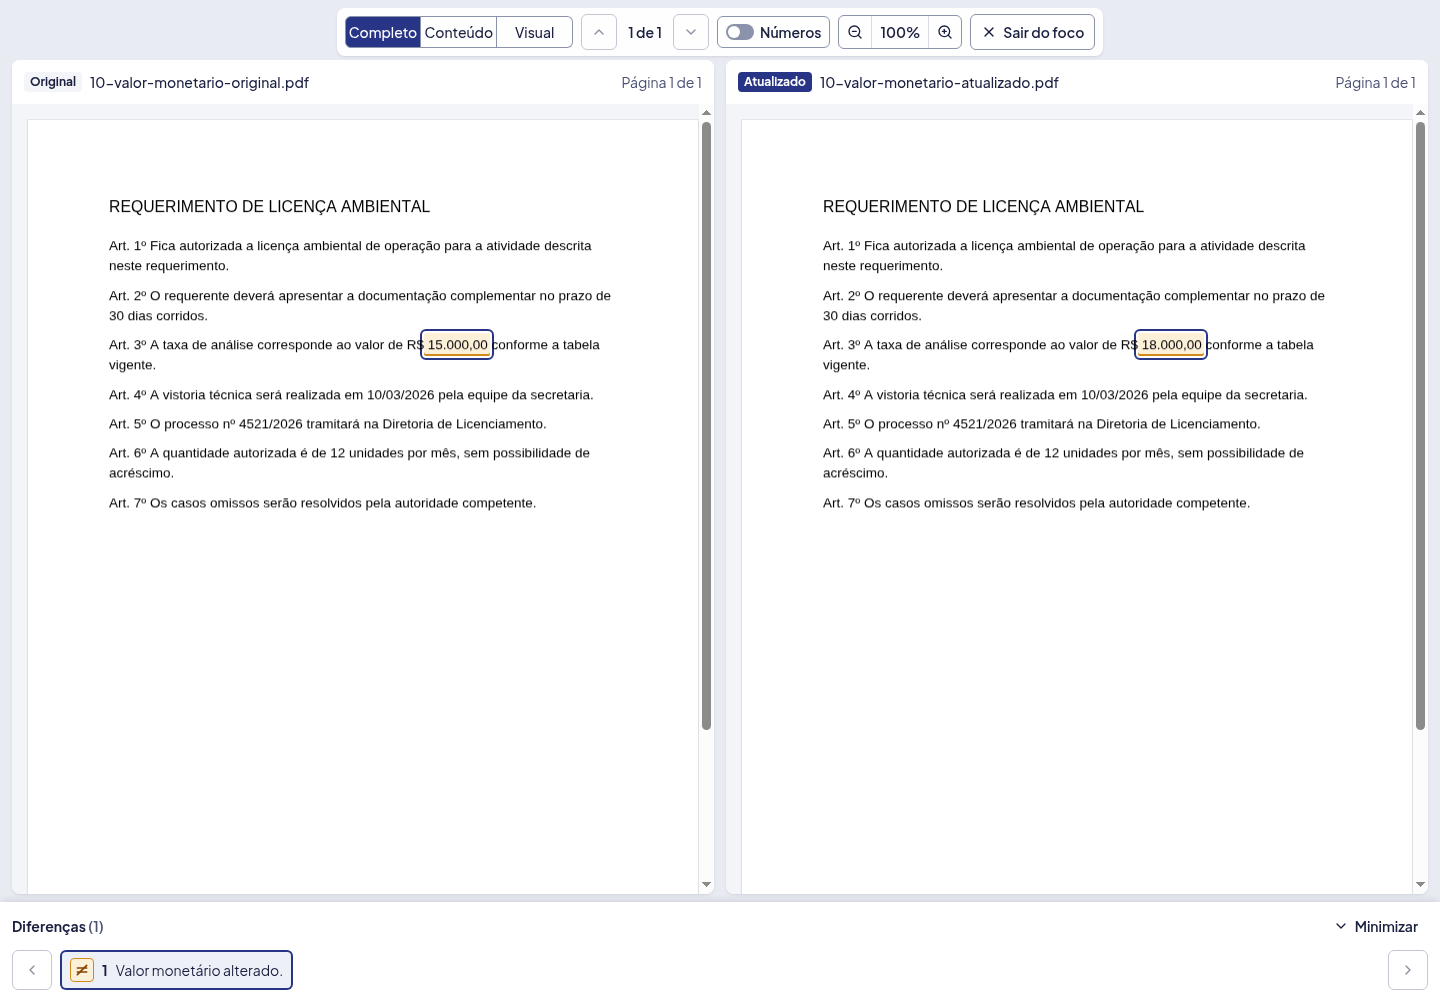
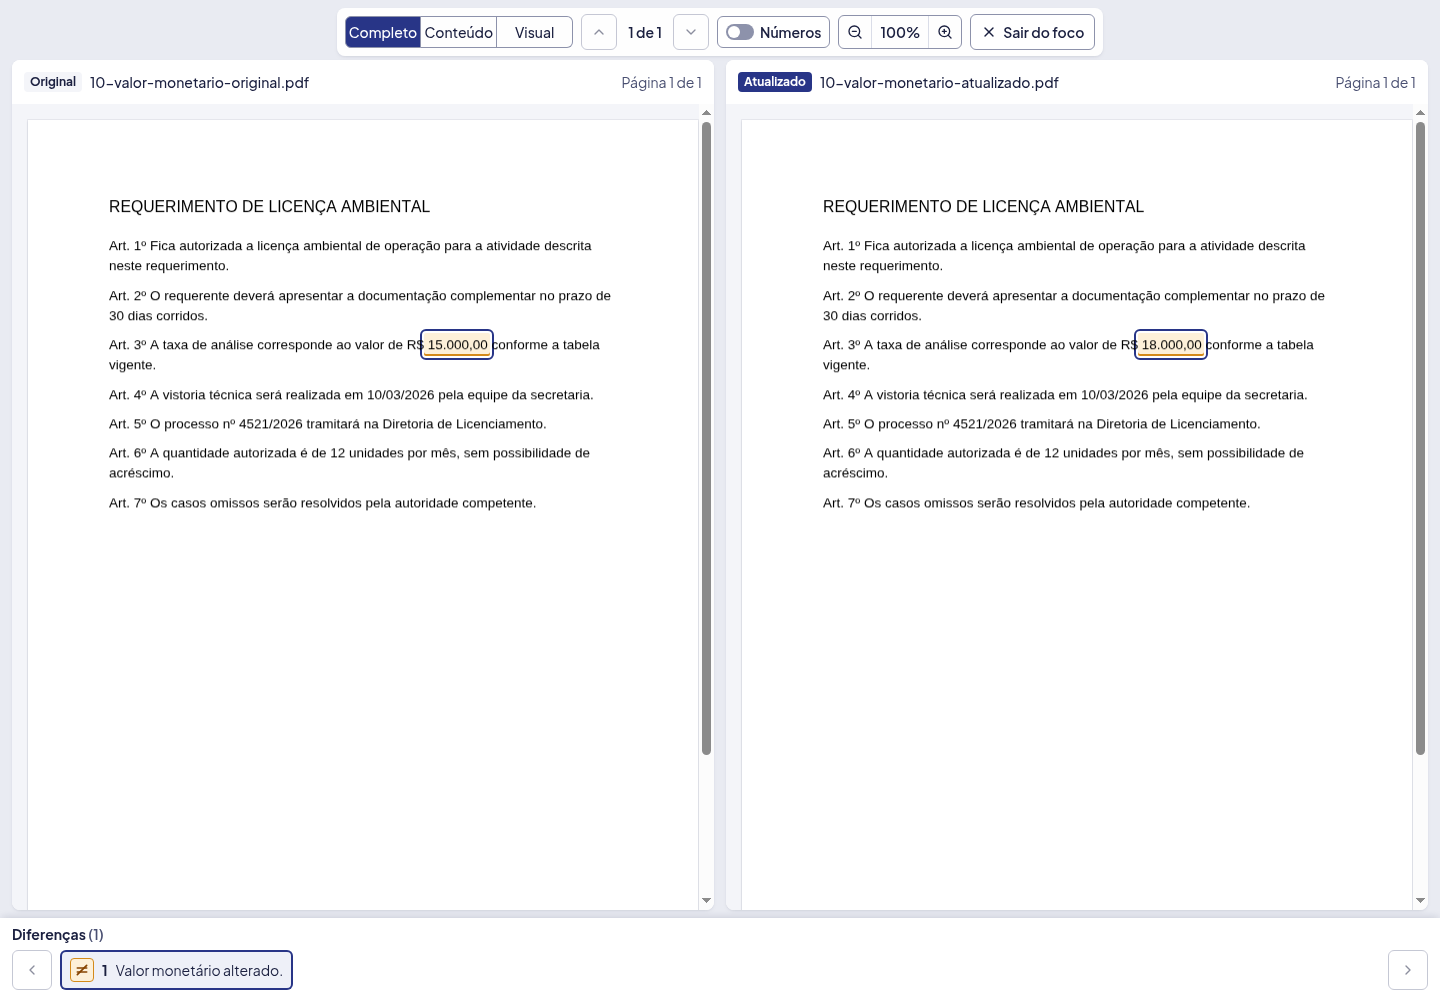
Deixa a faixa de diferenças sempre visível no modo foco
Pedido do responsável: no foco, as diferenças ficam sempre à vista, com as
setas para ir de uma à outra, sem a opção de minimizar.

Changed region(s): [[0.0, 0.868, 1.0, 0.961]]

diff --git a/src/features/comparison/components/ComparisonWorkspace.tsx b/src/features/comparison/components/ComparisonWorkspace.tsx
@@ -1,4 +1,4 @@
-import { ChevronDown, ChevronLeft, ChevronRight, ChevronUp, List, Maximize, PanelLeftClose, PanelLeftOpen, X } from 'lucide-react'
+import { ChevronLeft, ChevronRight, List, Maximize, PanelLeftClose, PanelLeftOpen, X } from 'lucide-react'
 import { useEffect, useId, useMemo, useRef, useState, type CSSProperties, type ReactNode } from 'react'
 import { createPortal } from 'react-dom'
 import { Button } from '@/components/ui/button'
@@ -178,7 +178,6 @@ export function ComparisonWorkspace({ result, documents, initialView = {}, onVie
   }
 
   const paneProps = { activeId, numbers, visibleIds, differences: result.differences, onSelect: navigation.select, pageMatches: result.analysis.pageMatches }
-  const activeDifference = navigation.active
   const showOriginal = viewMode !== 'updated'
   const showUpdated = viewMode !== 'original'
 
@@ -252,25 +251,11 @@ export function ComparisonWorkspace({ result, documents, initialView = {}, onVie
             <h2 className="text-sm font-bold text-ink">
               Diferenças <span className="tabular font-semibold text-muted-foreground">({navigation.visible.length})</span>
             </h2>
-            {listCollapsed && activeDifference && (
-              <span className="min-w-0 truncate text-sm text-muted-foreground">
-                {numbers.get(activeDifference.id)}. {describeDifference(activeDifference)}
-              </span>
-            )}
-            <Button variant="ghost" size="sm" className="ml-auto" aria-expanded={!listCollapsed} onClick={() => setListCollapsed((value) => !value)}>
-              {listCollapsed ? <ChevronUp aria-hidden /> : <ChevronDown aria-hidden />}
-              {listCollapsed ? 'Mostrar diferenças' : 'Minimizar'}
-            </Button>
           </div>
           <div className="flex items-center gap-2 px-3 pt-1 pb-2">
             <Button variant="outline" size="icon" onClick={navigation.previous} disabled={!navigation.hasPrevious} aria-label="Diferença anterior">
               <ChevronLeft aria-hidden />
             </Button>
-            {listCollapsed ? (
-              <span className="tabular text-sm font-semibold text-ink" aria-live="polite">
-                {navigation.visible.length === 0 ? '0 de 0' : `${navigation.activeIndex + 1} de ${navigation.visible.length}`}
-              </span>
-            ) : (
               <ol aria-label="Diferenças encontradas" className="flex min-w-0 flex-1 gap-2 overflow-x-auto py-0.5">
                 {navigation.visible.map((difference) => {
                   const meta = differenceKindMeta[difference.kind]
@@ -294,8 +279,7 @@ export function ComparisonWorkspace({ result, documents, initialView = {}, onVie
                   )
                 })}
               </ol>
-            )}
-            <Button variant="outline" size="icon" onClick={navigation.next} disabled={!navigation.hasNext} aria-label="Próxima diferença" className={cn(listCollapsed && 'mr-auto')}>
+            <Button variant="outline" size="icon" onClick={navigation.next} disabled={!navigation.hasNext} aria-label="Próxima diferença">
               <ChevronRight aria-hidden />
             </Button>
           </div>

diff --git a/src/features/comparison/components/ComparisonWorkspace.test.tsx b/src/features/comparison/components/ComparisonWorkspace.test.tsx
@@ -84,7 +84,7 @@ describe('ComparisonWorkspace', () => {
     expect(screen.getByRole('region', { name: 'Documento atualizado' })).toBeInTheDocument()
   })
 
-  it('modo foco: tela cheia, setas na faixa de diferenças e Esc para sair', async () => {
+  it('modo foco: tela cheia, faixa de diferenças sempre visível com setas e Esc para sair', async () => {
     const user = userEvent.setup()
     renderWorkspace()
     await user.click(screen.getByRole('button', { name: /Focar/ }))
@@ -97,10 +97,8 @@ describe('ComparisonWorkspace', () => {
     expect(within(strip).getAllByRole('button')[1]).toHaveAttribute('aria-current', 'true')
     await user.click(defined(within(focusRegion).getAllByRole('button', { name: 'Diferença anterior' })[1]))
     expect(within(strip).getAllByRole('button')[0]).toHaveAttribute('aria-current', 'true')
-    // Minimizar a faixa deixa só as setas e a posição.
-    await user.click(within(focusRegion).getByRole('button', { name: 'Minimizar' }))
-    expect(within(focusRegion).queryByRole('list', { name: 'Diferenças encontradas' })).not.toBeInTheDocument()
-    expect(within(focusRegion).getAllByText(`1 de ${total}`, { selector: 'span[aria-live]' })).toHaveLength(2)
+    // No foco, as diferenças ficam sempre à vista: não há como minimizar a faixa.
+    expect(within(focusRegion).queryByRole('button', { name: /Minimizar/ })).not.toBeInTheDocument()
     await user.keyboard('{Escape}')
     expect(screen.queryByRole('region', { name: /Modo foco/ })).not.toBeInTheDocument()
     expect(screen.getByRole('button', { name: /Focar/ })).toHaveFocus()

diff --git a/docs/CONTEXTO.md b/docs/CONTEXTO.md
@@ -54,7 +54,7 @@ Antes de cada commit: `npm run lint`, `npm run typecheck`, `npm test` e `npm run
 
 | Data | Decisão |
 |---|---|
-| 16/10/2026 | **Tela de comparação: barra única + modo foco + lista minimizável + números só ao passar o mouse** (com interruptor "Números" para deixá-los sempre visíveis). No foco, a faixa de diferenças tem setas para ir de uma à outra. Referência: `docs/propostas-comparacao/mistura.html`. |
+| 16/10/2026 | **Tela de comparação: barra única + modo foco + lista minimizável + números só ao passar o mouse** (com interruptor "Números" para deixá-los sempre visíveis). No foco, a faixa de diferenças fica sempre visível (sem minimizar), com setas para ir de uma à outra. Referência: `docs/propostas-comparacao/mistura.html`. |
 | 16/10/2026 | **A comparação continua aberta** quando a pessoa visita outra página do site e volta por "Comparar PDFs" (pedido do responsável). Só em memória: recarregar, sair da conta ou "Nova comparação" a descartam. |
 | 15/10/2026 | **Comparador híbrido** (missão "evolução completa do sistema de comparação de PDFs"): **substitui a D3** ("só o texto, sem OCR"). O comparador passa a comparar texto, aparência (renderização), imagens, estrutura de páginas e documentos digitalizados (OCR local), com consolidação das evidências, modos Completo/Conteúdo/Visual, exportação e cobertura da análise explícita. Nada de LLM nem de APIs externas: OCR local (Tesseract). Sem push, deploy ou mudança em serviços institucionais. Registro em `docs/comparador/REGISTRO_EXECUCAO.md`. |
 | 15/10/2026 | **Entrada depois do login: "varredura lado a lado"** (as folhas "Original" e "Atualizado" lado a lado, com uma linha amarela que desce acendendo as diferenças). **A logo da entrada não pode ser branca**, porque a troca de branco para azul no voo até o cabeçalho fica estranha: ela nasce azul sobre uma placa branca. **Escolhida a "+ Lista"** (cada diferença vira uma etiqueta que voa até uma lista no meio). A placa branca retangular sob a logo não agradou (fica sobreposta ao fundo). **Fundo: "Névoa"** (claro azulado com os anéis em azul; o responsável voltou atrás no "Noite"): no claro, a logo azul aparece direto, sem placa. **Depois do login aparece uma saudação ("Boas-vindas" com o nome), que a varredura troca pela logo**; **Escolhida a "linha sobe"**, mas sem a saudação surgindo sozinha: a linha desce lendo os PDFs, sobe apagando-os e revelando a saudação, e desce de novo trocando-a pelo AQR. **Escolhido o "corte limpo"** (troca seca nas duas passadas). **Saudação "pelo horário"** (Bom dia / Boa tarde / Boa noite, com o primeiro nome do usuário). A linha amarela desce pela página inteira dos PDFs, até o pé da folha. **Entrada fechada**; referência em `docs/propostas-login/login-entrada-final.html`. |
@@ -181,6 +181,7 @@ Antes de cada commit: `npm run lint`, `npm run typecheck`, `npm test` e `npm run
 | 15/10/2026 | Corpus sintético com gabarito (`server/comparison/evaluation/`: gerador de PDFs com texto, imagens, formas, tabelas, colunas, rotação e páginas digitalizadas com ruído e inclinação; 47 casos; avaliação por categoria; `npm run test:corpus`, `npm run avaliar:corpus`) e correções que ele revelou: texto em página girada, serrilhado com deslocamento subpixel, página repetida, carimbo sobre texto, ruído e rabiscos no OCR, dígito pequeno em digitalização. 47/47; relatório em `docs/comparador/avaliacao-corpus.md` | ver `git log` |
 | 15/10/2026 | Robustez a outros geradores (corpus regravado pelo Ghostscript e pelo Cairo: só a troca real de fonte do Cairo aparece), fonte e tamanho só onde a aparência mudou, linhas finas com outra espessura de rasterização ignoradas; testes unitários da ordem de leitura, correspondência de páginas, comparação de pixels, classificação e consolidação | ver `git log` |
 | 15/10/2026 | Desempenho (`npm run medir:desempenho`, `docs/comparador/desempenho.md`, 10 a 1.000 páginas): comparação de pixels com mapas de vizinhança pré-calculados (pior caso 0,45 → 0,15 s/página), agrupamento por página (fim de filtragens quadráticas), texto acima do limite tentado palavra a palavra e, se nada couber, página a página (antes a tarefa inteira falhava), laços no lugar de `push(...lista)` que estourava a pilha com documentos longos. 1.000 páginas no pior caso: 90 s, análise parcial com ressalva | ver `git log` |
+| 16/10/2026 | Modo foco sem "Minimizar": a faixa de diferenças fica sempre visível, com as setas (pedido do responsável) | ver `git log` |
 | 16/10/2026 | Tela de comparação nova no site, aprovada pelo responsável: barra única (52 px a 1440 px; selo da situação que abre os detalhes, modos, categoria, contadores, "Números", ▲/▼, visualização e legenda num menu, zoom, "Focar", "Ações" com exportar e nova comparação), lista de diferenças de 17 rem que minimiza numa aba fina, modo foco em tela cheia (portal no body; F liga, Esc sai) com barra flutuante e faixa de diferenças com setas ◀ ▶ e "Minimizar", números das diferenças só ao passar o mouse com o interruptor "Números". O estado (foco, lista, números) fica na sessão da comparação. Página do PDF: 440 → 520 px (lista aberta), 635 px (minimizada), 665 px (foco). Conferido no Chromium (23 verificações) | ver `git log` |
 | 16/10/2026 | Mistura pedida pelo responsável: barra única como padrão, botão "Focar" (tecla F, Esc sai) da proposta 5, lista de diferenças minimizável (aba fina na tela normal, uma linha no foco) e números das diferenças só ao passar o mouse, com o interruptor "Números sempre". Em `docs/propostas-comparacao/mistura.html`. Aguardando aprovação para levar ao site | ver `git log` |
 | 16/10/2026 | Cinco disposições da tela de comparação para as páginas ficarem maiores (barra única, trilho numerado, uma versão por vez, margem central, modo foco), mais a atual como referência, simuladas em 1440 × 900 com a largura medida das páginas, em `docs/propostas-comparacao/disposicoes.html` (`#atual`, `#d1` a `#d5`). Aguardando a escolha do responsável | ver `git log` |
